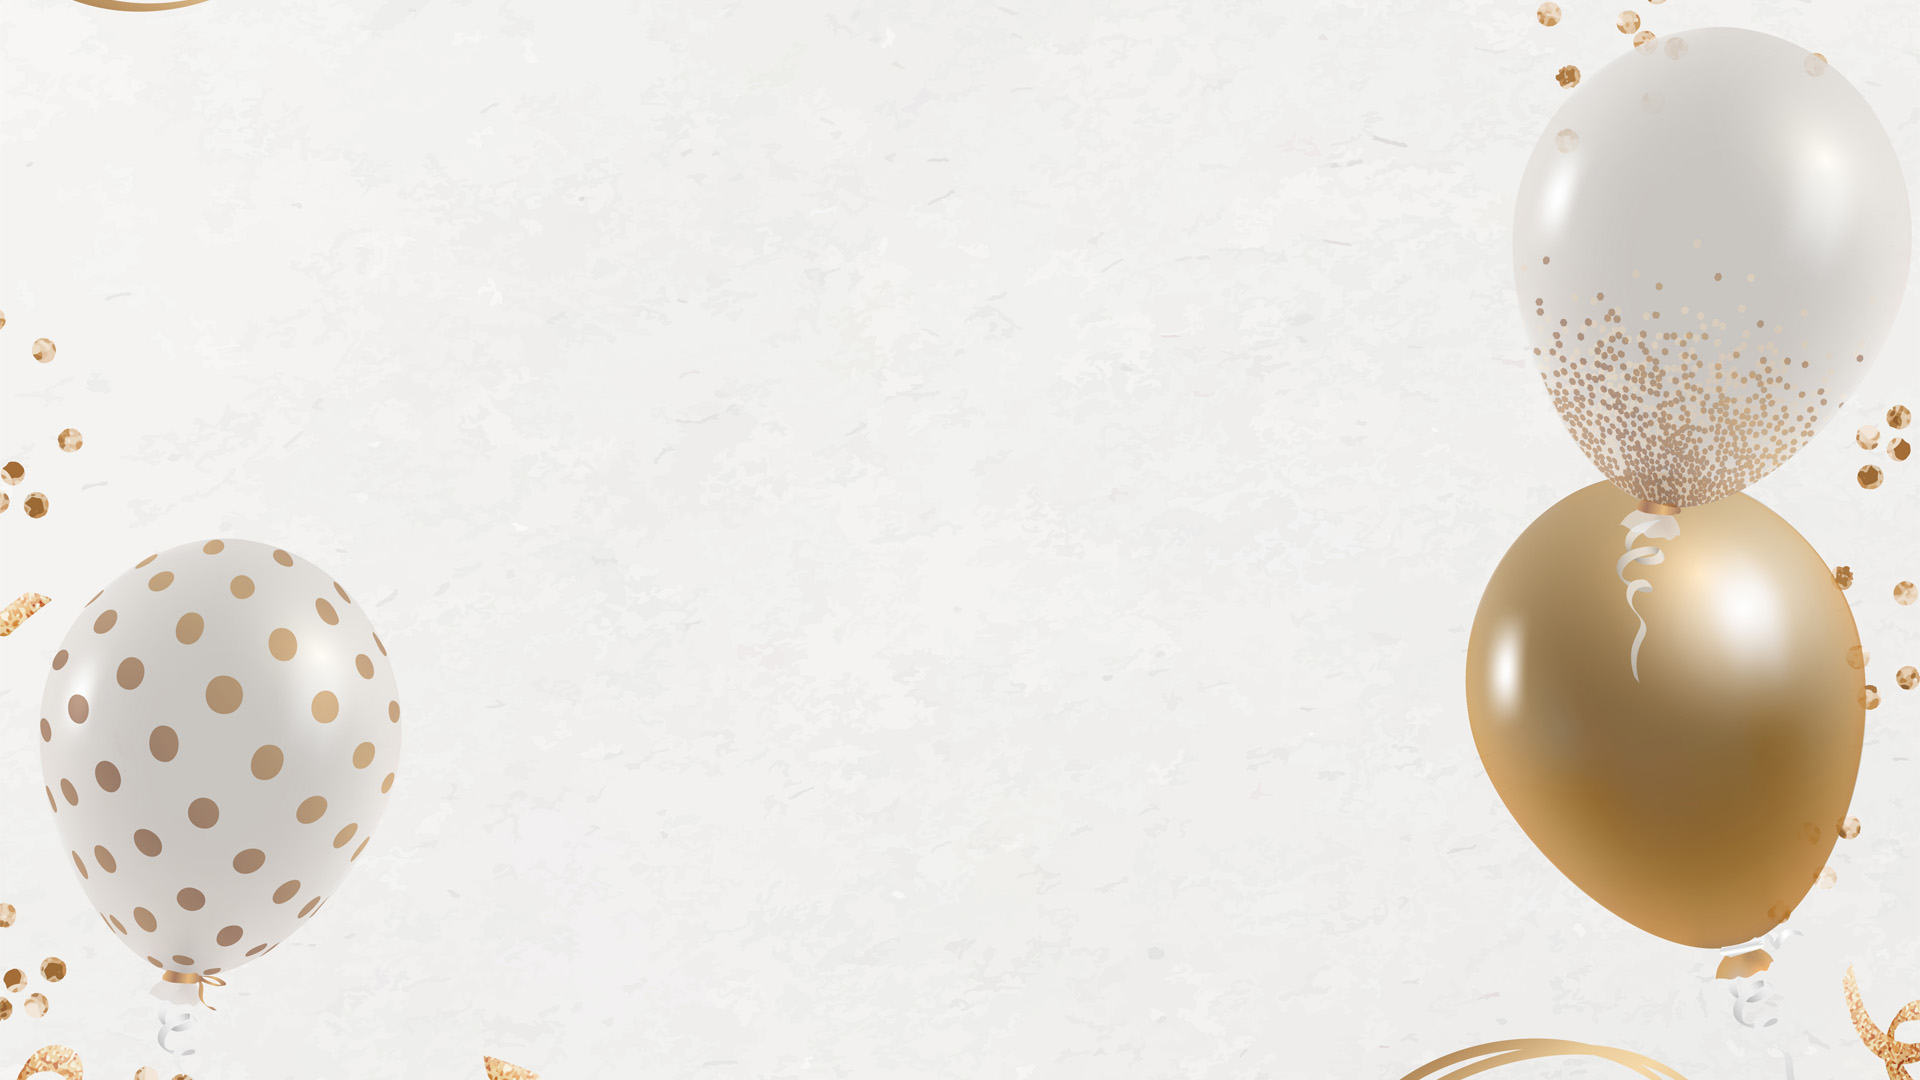
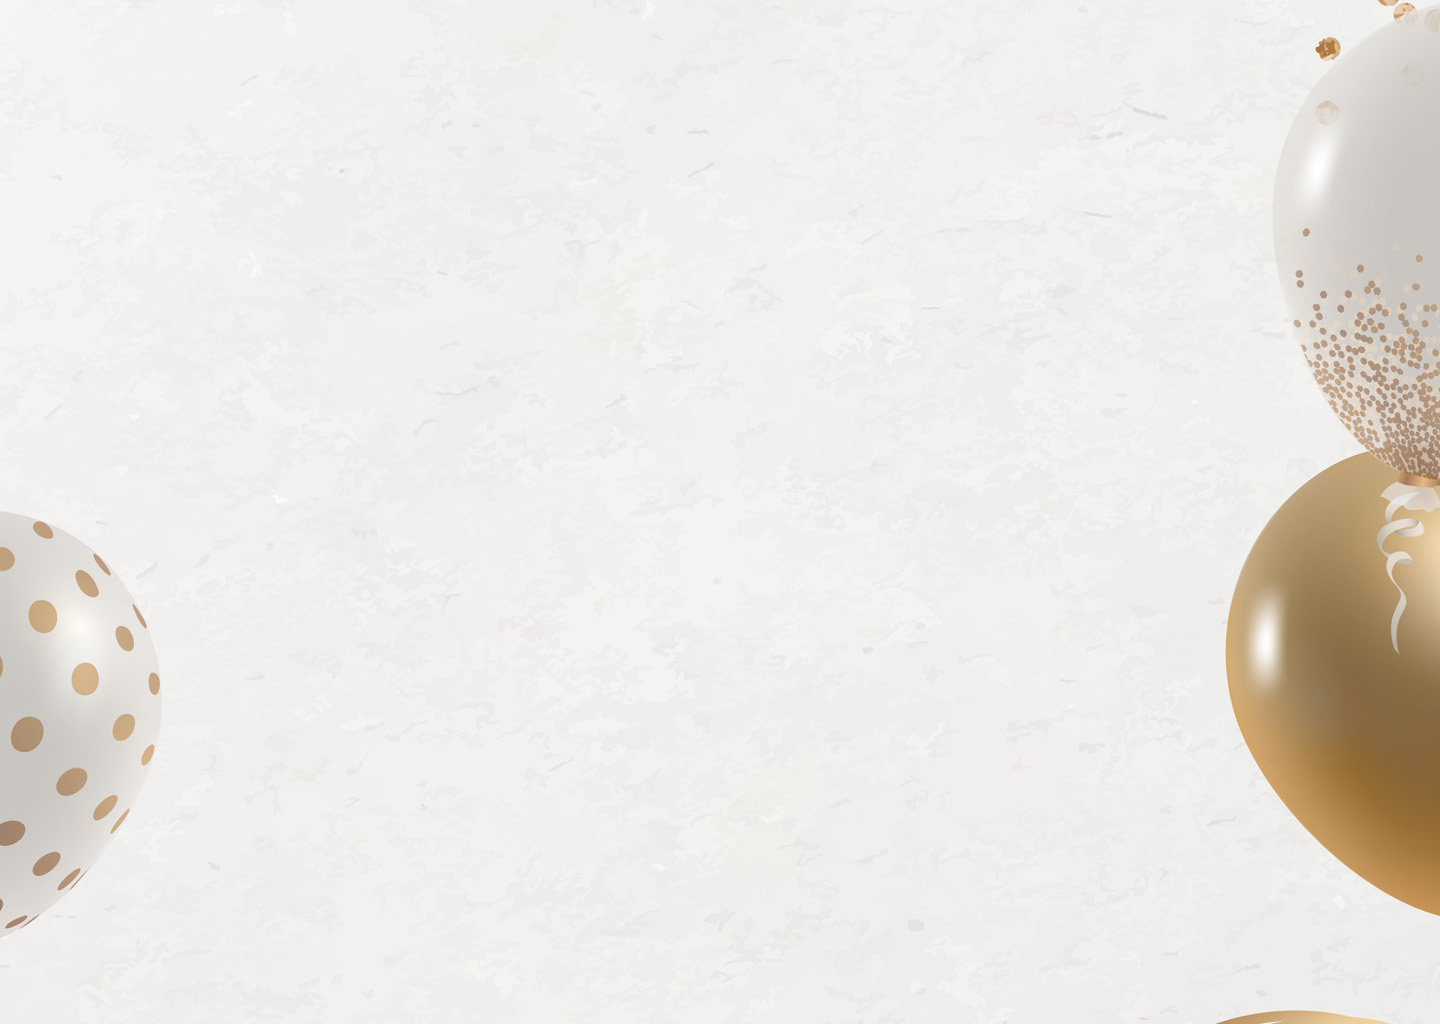
started css for website

diff --git a/styles.css b/styles.css
@@ -1,0 +1,26 @@
+:root {
+
+}
+
+* {
+    border-style: border-box;
+    margin: 0;
+    
+}
+
+body {
+    background-image: url(assets/anniversary-background-formated.jpg);
+    background-size: cover;
+}
+
+#count-down {
+    position: absolute;
+    top: 50%;
+    left: 50%;
+    transform: translate(-50%, -50%);
+    font-size: 62.5%;
+}
+
+.hero-title {
+    font-size: 2rem;
+}
